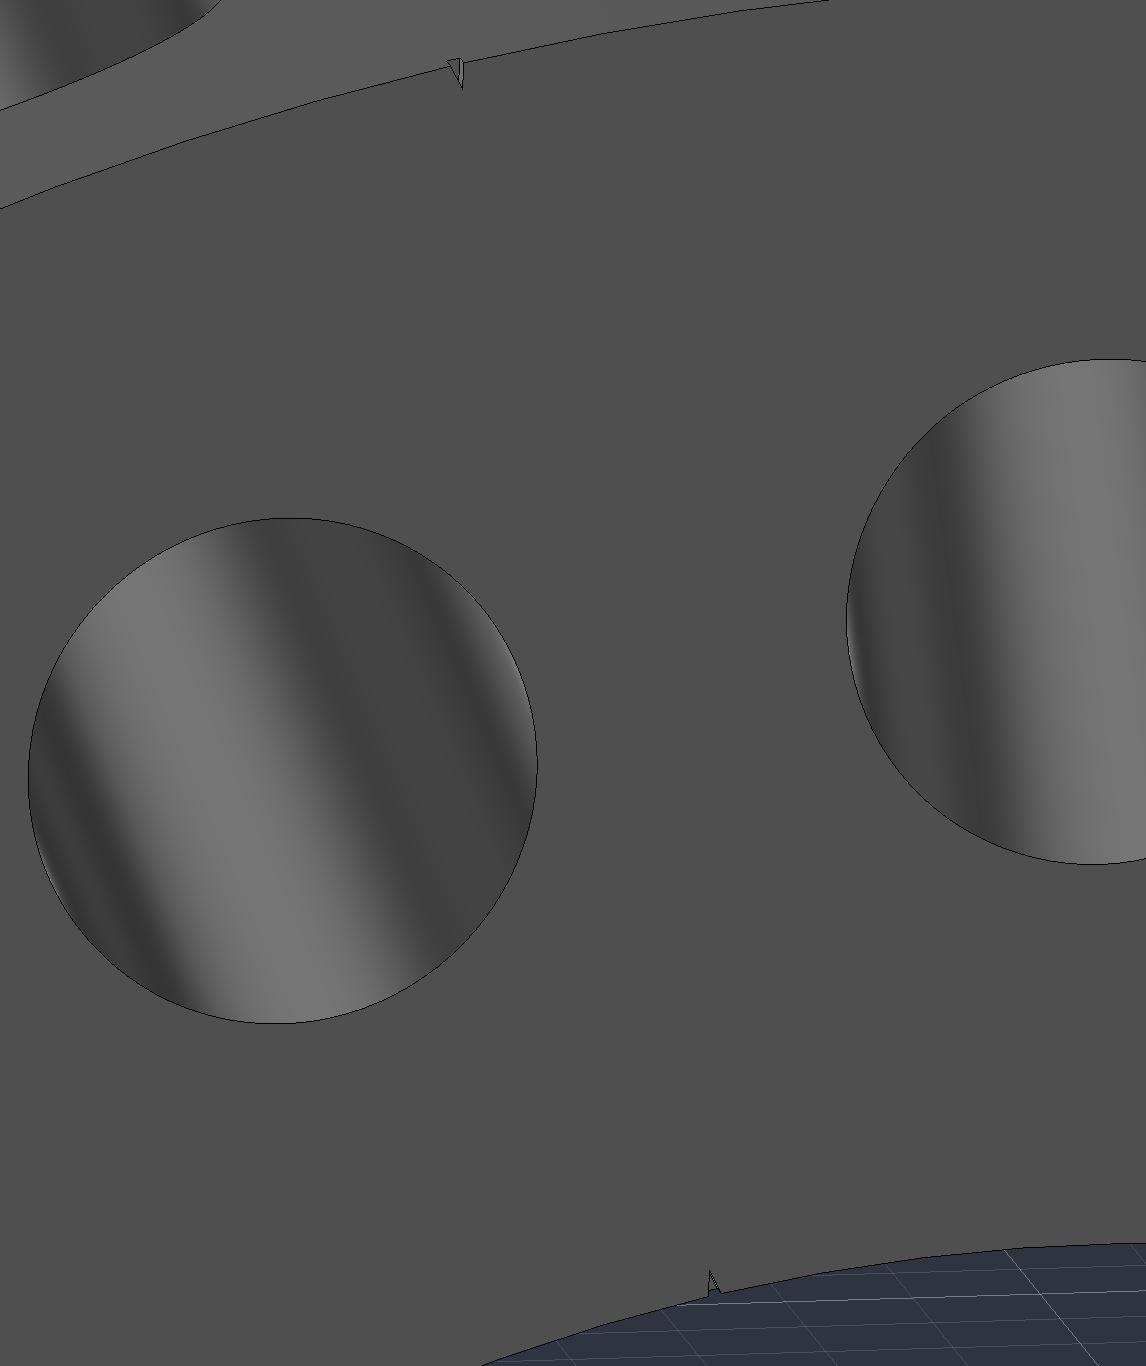
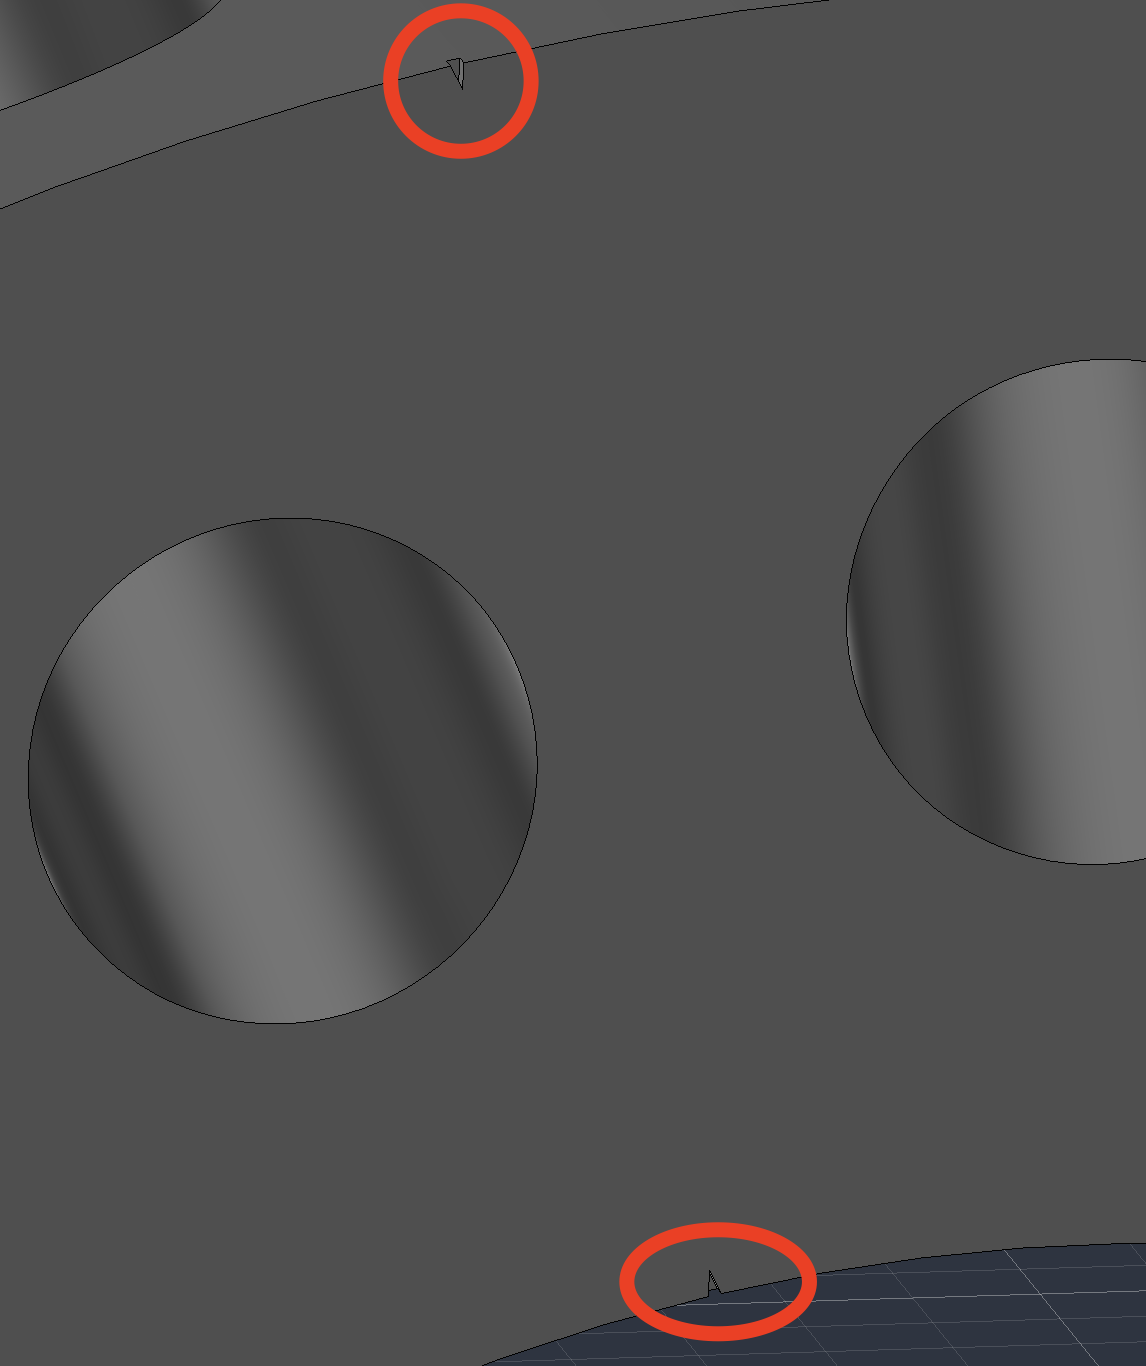
updated image

Changed region(s): [[0.5192, 0.8917, 0.733, 0.9839], [0.336, 0.0, 0.4887, 0.123]]

diff --git a/README.md b/README.md
@@ -38,7 +38,10 @@ And apply path following pattern with least 2mm distance between each holes.
 ![Fusion Hole Pattern](/0%20assets/fusion%20hole%20pattern.png)
 
 And add marks for the seam for the later unfolding process.
-In my case, I add small triangles.
+In my case, I added small triangles.
+
+(This example doesn't require any seam for unfolding. Apply this feature only when it's needed)
+
 ![Fusion Mark](/0%20assets/fusion%20mark.png)
 
 ## 2. Offset Surface